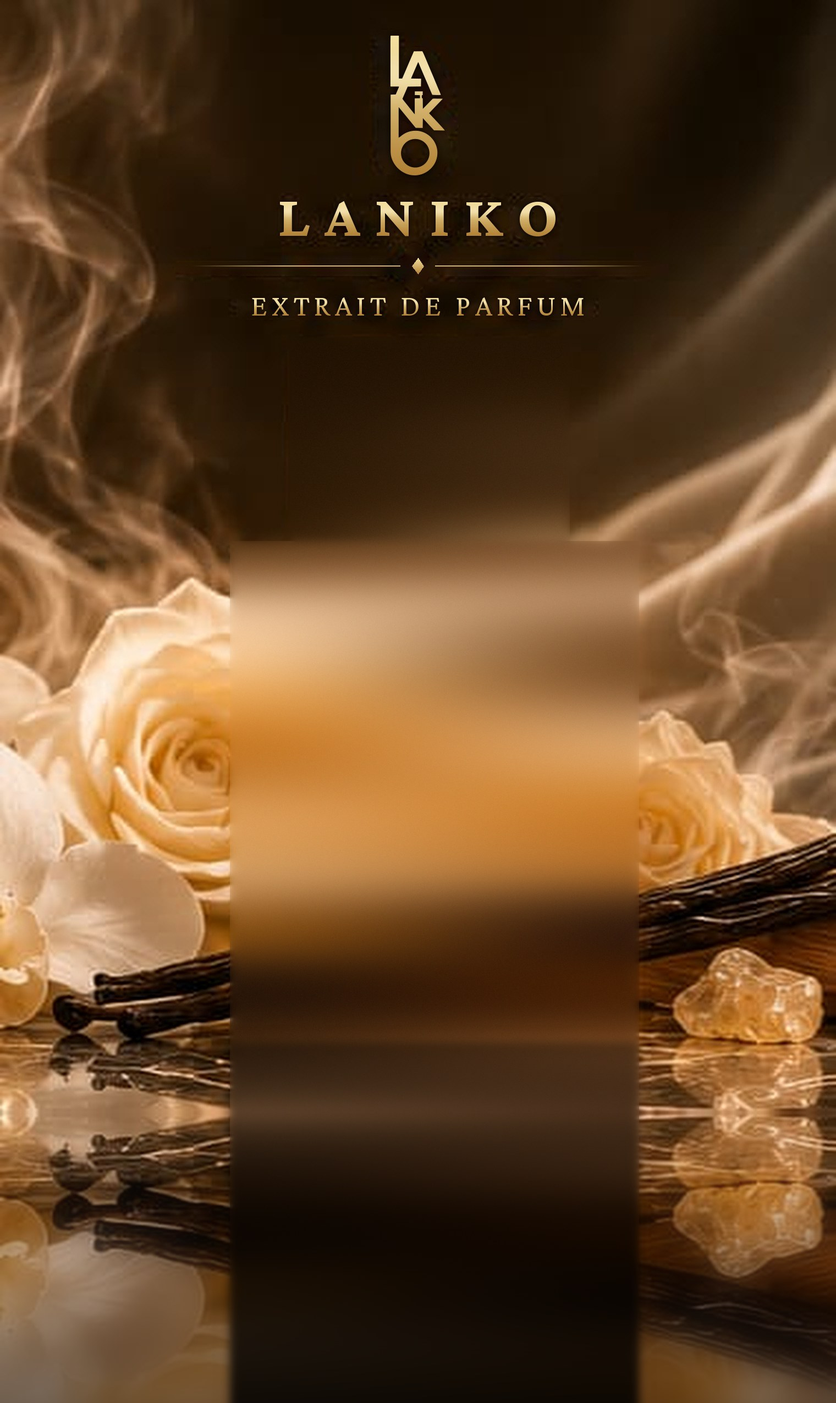
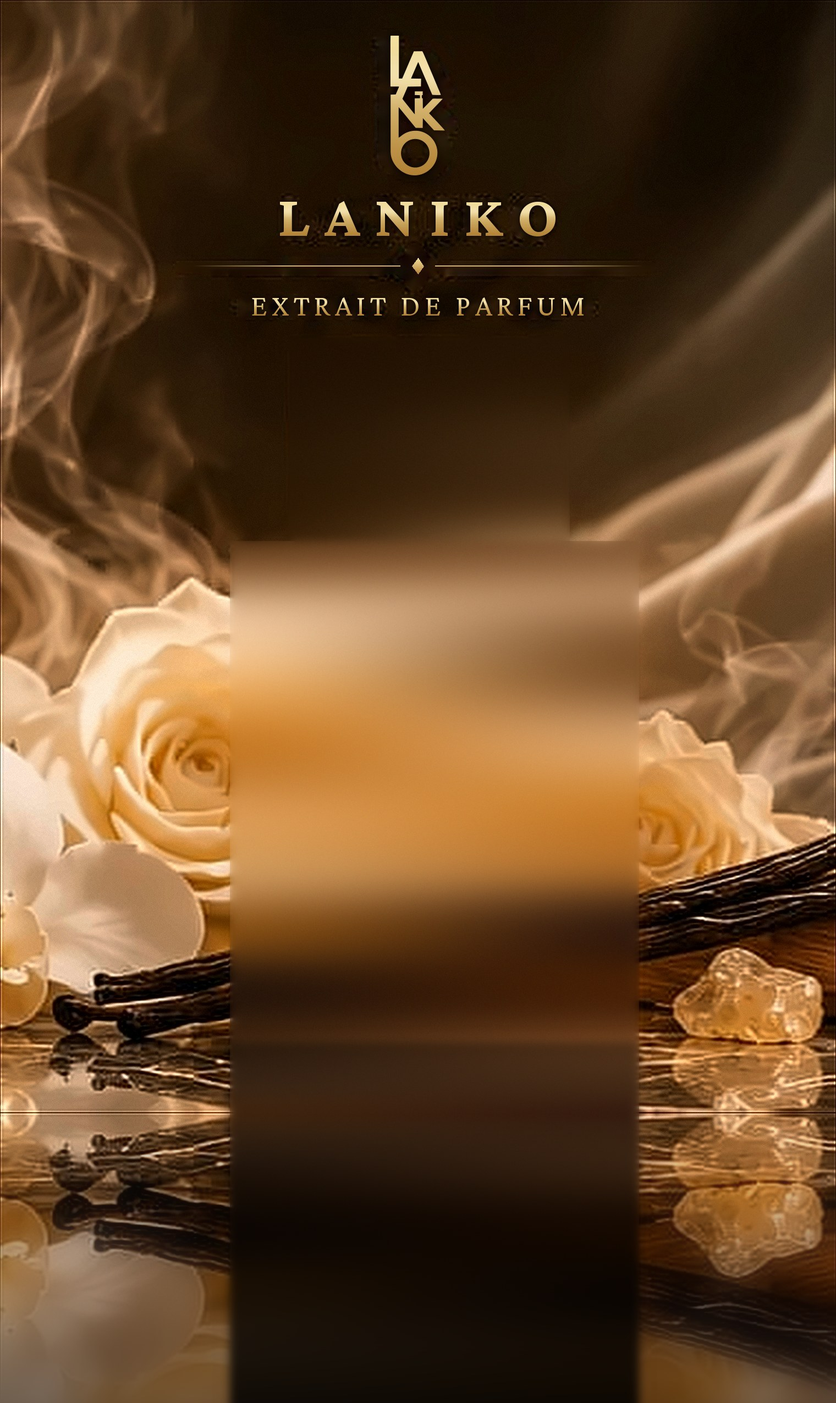
Sharper, textured photos; mirror-polished gold cap with strip-light reflections
Claude-Session: https://claude.ai/code/session_01UcqBSTGGdYJCsLfUZ3upKN

diff --git a/viewer.js b/viewer.js
@@ -149,7 +149,7 @@ function makeStudioEnvironment() {
   const dome = new THREE.SphereGeometry(14, 48, 24);
   const cols = [];
   const p = dome.attributes.position;
-  const bottom = new THREE.Color(0x0d0906), mid = new THREE.Color(0x2c2218), top = new THREE.Color(0x5a4c3a);
+  const bottom = new THREE.Color(0x060403), mid = new THREE.Color(0x14100b), top = new THREE.Color(0x2a2118);
   for (let i = 0; i < p.count; i++) {
     const t = (p.getY(i) / 14 + 1) / 2; // 0 bottom .. 1 top
     const c = t < 0.5 ? bottom.clone().lerp(mid, t * 2) : mid.clone().lerp(top, (t - 0.5) * 2);
@@ -167,13 +167,17 @@ function makeStudioEnvironment() {
     m.lookAt(0, 0, 0);
     env.add(m);
   };
-  panel(7, 9, new THREE.Color(10, 9, 7.6), [6, 4, 6]);        // big warm key
-  panel(2.2, 10, new THREE.Color(7, 7.4, 8.6), [-6.5, 3, 5]);  // tall cool strip, left
-  panel(2, 10, new THREE.Color(9, 8, 6.6), [7.5, 3, -3]);      // rim strip, right-back
-  panel(2, 10, new THREE.Color(8, 7.4, 6.6), [-5, 3, -7.5]);   // rim strip, left-back
-  panel(10, 4, new THREE.Color(5, 4.8, 4.4), [0, 9, 0]);       // overhead
-  panel(8, 2, new THREE.Color(2.5, 2.3, 2), [0, 0.8, 8]);      // low front fill
-  panel(1.2, 1.2, new THREE.Color(18, 17, 15), [3, 5, 8]);     // hot spot for sparkle
+  // Polished metal only looks like metal when it reflects dark areas next to bright, sharp-edged
+  // lights. So: a dark studio with tall strip lights. Seen on a cylinder (the cap), the dark front
+  // becomes a dark vertical band with bright bands on each side, like in the product photos.
+  panel(2.2, 11, new THREE.Color(12, 11, 9), [5.2, 2, 7]);      // front-right strip (wide, bright)
+  panel(1.2, 11, new THREE.Color(9, 9.4, 10.5), [-4.6, 2, 7.4]); // front-left strip (narrow, cool)
+  panel(1.6, 11, new THREE.Color(7, 6.4, 5.4), [-9, 2, 2.5]);   // left side strip
+  panel(1.6, 11, new THREE.Color(8, 7.2, 6), [9, 2, 2.5]);      // right side strip
+  panel(2, 11, new THREE.Color(9, 8, 6.6), [7.5, 3, -4]);       // rim strip, right-back
+  panel(2, 11, new THREE.Color(8, 7.4, 6.6), [-5, 3, -8]);      // rim strip, left-back
+  panel(11, 5, new THREE.Color(6, 5.7, 5.2), [0, 9, 1]);        // overhead softbox (top faces)
+  panel(1.4, 1.4, new THREE.Color(20, 19, 17), [4.5, 6, 6]);    // small hot spot for sparkle
   return env;
 }
 
@@ -262,15 +266,13 @@ function buildBottle(maps) {
   label.position.set(0, 0.88, 0.554);
   g.add(label);
 
-  const gold = new THREE.MeshPhysicalMaterial({
-    color: 0xf6d27c,
+  const gold = new THREE.MeshStandardMaterial({
+    color: 0xf2c870,
     metalness: 1,
-    roughness: 0.11,
-    clearcoat: 0.25,
-    clearcoatRoughness: 0.08,
-    envMapIntensity: 1.3,
+    roughness: 0.075, // mirror-polished
+    envMapIntensity: 1.8,
   });
-  const goldSoft = new THREE.MeshStandardMaterial({ color: 0xd9b25e, metalness: 1, roughness: 0.28, envMapIntensity: 1.1 });
+  const goldSoft = new THREE.MeshStandardMaterial({ color: 0xd9b25e, metalness: 1, roughness: 0.2, envMapIntensity: 1.5 });
   const black = new THREE.MeshStandardMaterial({ color: 0x0b0a09, roughness: 0.55, metalness: 0 });
 
   const collar = new THREE.Mesh(new THREE.LatheGeometry(capProfile(0.38, 0.15, 0.02, 4), 64), goldSoft);
@@ -404,11 +406,11 @@ export function createBottleViewer(container, product) {
       envTexture = pmrem.fromScene(envScene, 0.03).texture;
       scene.environment = envTexture;
 
-      const key = new THREE.DirectionalLight(0xfff1d6, 1.4);
+      const key = new THREE.DirectionalLight(0xfff1d6, 2.0);
       key.position.set(-3, 5, 7);
       const rim = new THREE.DirectionalLight(new THREE.Color(theme.smoke), 1.1);
       rim.position.set(5, 3, -4);
-      scene.add(key, rim, new THREE.AmbientLight(0xffffff, 0.25));
+      scene.add(key, rim, new THREE.AmbientLight(0xffffff, 0.5));
 
       const maps = makeLabelMaps(product, renderer.capabilities.getMaxAnisotropy());
       rig.add(buildBottle(maps));
